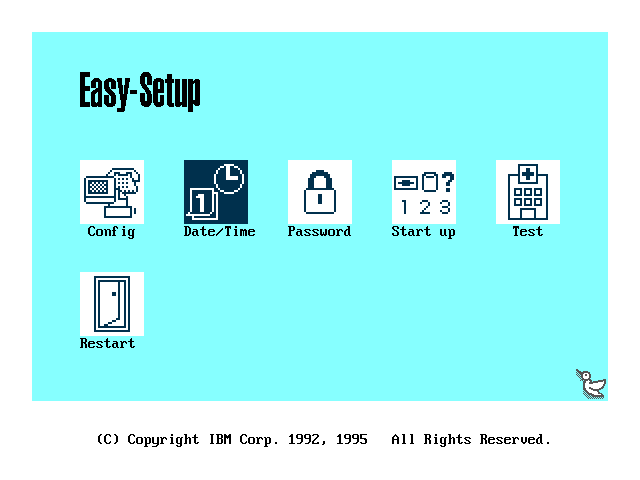
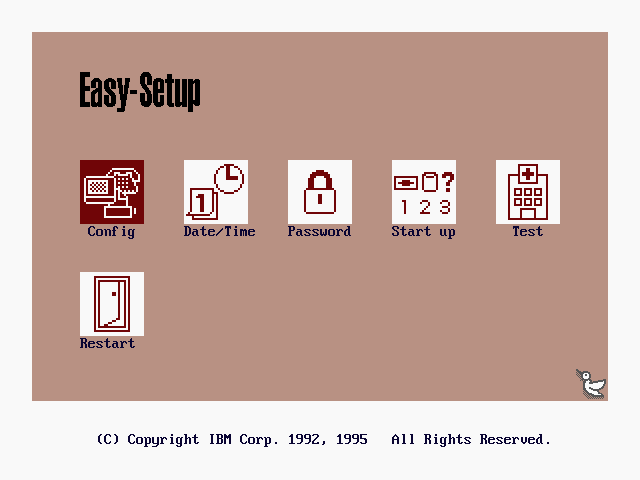
Match IBM Easy-Setup LCD palette

diff --git a/README.md b/README.md
@@ -39,6 +39,8 @@ dc7b1572aaa34b617675e8655f789e9fa2ca4929ca052fc579c229e7ca737a05  IBM-PC110-MiST
 * PCMCIA register file, font-ROM banking with the 1 MB Japanese font image,
   the inking port and both EC windows
 * IDE, floppy, VGA, keyboard and mouse through the shared PC-compatible blocks
+* PC110-specific IBM Easy-Setup LCD colors, matched to the real-hardware
+  reference palette documented by PC110-EMU
 * COM1/internal-modem transport through MiSTer Main, with a PC110-specific
   19,200-baud profile
 * PC110 CMOS layout
@@ -52,7 +54,7 @@ mattered got checked on the metal.
 ## Screenshots
 
 IBM Easy-Setup, running straight off the flash image with working keyboard
-navigation:
+navigation and the hardware-matched mauve, maroon and dark-blue LCD palette:
 
 ![Easy-Setup](docs/images/ibm-pc110-easy-setup.png)
 
@@ -87,6 +89,10 @@ Quartus 17.0.2 in the raetro container, same as the rest of the cores:
 
     scripts/test.sh
     scripts/build.sh
+
+To build on a separate Quartus host over SSH:
+
+    BUILD_HOST=user@quartus-builder scripts/build-remote.sh
 
 The bitstream ends up in `artifacts/PC110.rbf`. Set `DOCKER_BIN`,
 `DOCKER_CONTEXT` or `QUARTUS_IMAGE` if your setup needs it. There's a
